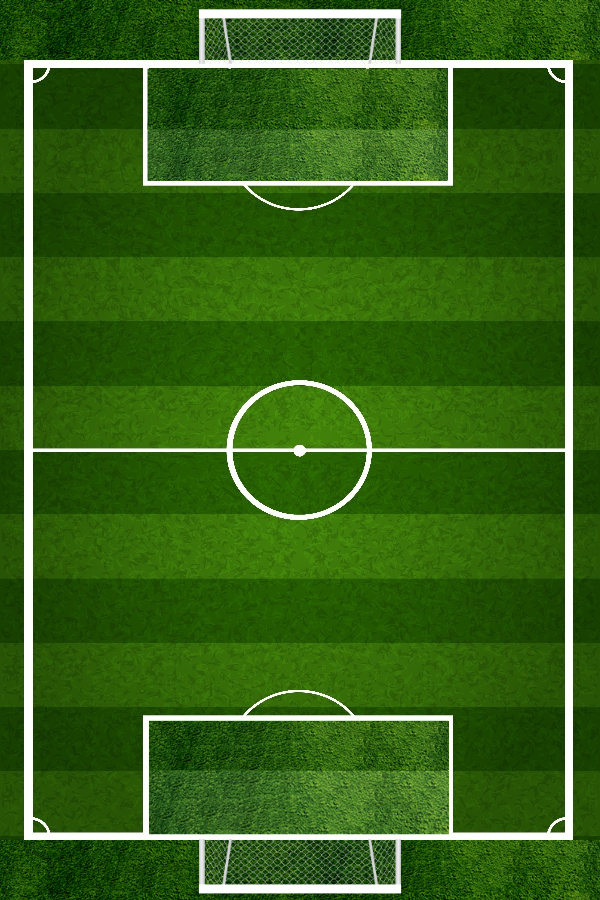
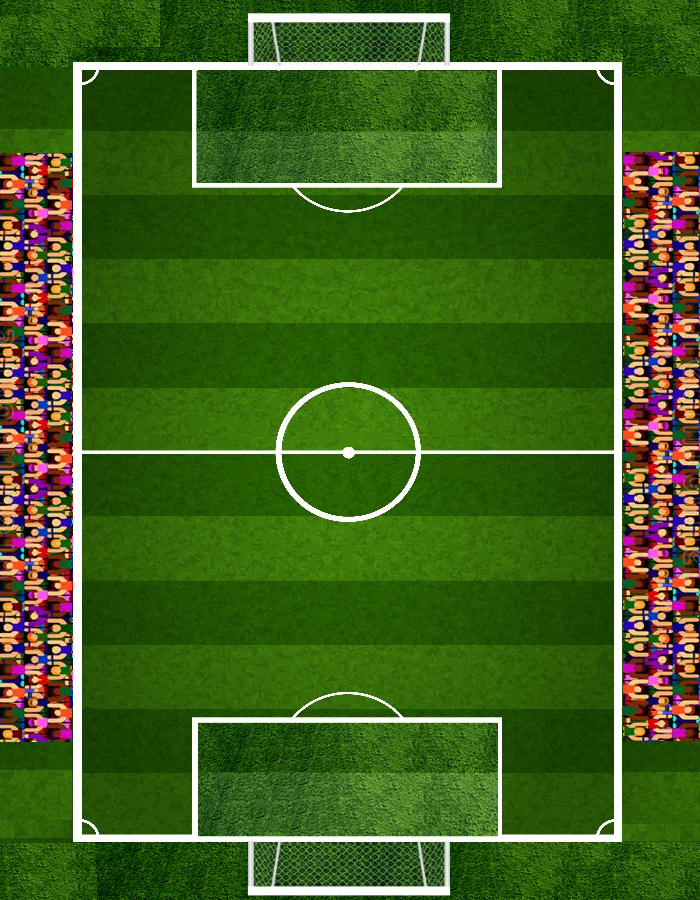
scoreboard, power bar, ball, game over condition

diff --git a/main.py b/main.py
@@ -8,12 +8,11 @@ pygame.mixer.init()
 sonido_fondo = pygame.mixer.Sound("sound/fans.mp3")
 pygame.mixer.Sound.play(sonido_fondo,-1)
 
-
 # Initialize the gygame
 pygame.init()
 
 # Create the screen
-screen = pygame.display.set_mode((700,900))
+screen = pygame.display.set_mode((950,900))
 
 # Title and Icon
 pygame.display.set_caption("Table Soccer")
@@ -21,7 +20,12 @@ icon = pygame.image.load('Images/copa-mundial.png')
 pygame.display.set_icon(icon)
 
 # Background
-background = pygame.image.load("Images/field2.png")
+background = pygame.image.load("Images/field.png")
+scoreboard = pygame.image.load("Images/scoreboard.png")
+landscape = pygame.image.load("Images/landscape.jpeg")
+
+# Arrow
+arrow_image = pygame.image.load("Images/right-arrow.png")
 
 # pymunk space
 space = pymunk.Space()
@@ -30,16 +34,42 @@ draw_options = pymunk.pygame_util.DrawOptions(screen)
 
 # clock
 clock = pygame.time.Clock()
-FPS = 120
+FPS = 16
 
 # game variables
 dia = 52
-force = 2000
+force = 0
+max_force = 2000
+force_direction = 1
+powering_up = False
+scored_1 = False
+scored_2 = False
+team1_score = 0
+team2_score = 0
+game_running = True
+turn_player2 = False
 
-team1_image = pygame.image.load('Images/argentina52.png')
-team1_image2 = pygame.image.load('Images/argentina.png')
-team2_image = pygame.image.load('Images/brazil52.png')
-team2_image2 = pygame.image.load('Images/brazil.png')
+# colours
+RED = (255, 0, 0)
+WHITE = (255, 255, 255)
+GREEN = (0, 255, 0)
+
+# fonts
+font = pygame.font.SysFont("Lato", 60)
+#font = pygame.transform.rotate(original_font, 90)
+large_font = pygame.font.SysFont("Lato", 90)
+
+name1 = 'argentina'
+name2 = 'brazil'
+
+team1_image = pygame.image.load(f'Images/{name1}52.png')
+team1_image2 = pygame.image.load(f'Images/{name1}.png')
+team2_image = pygame.image.load(f'Images/{name2}52.png')
+team2_image2 = pygame.image.load(f'Images/{name2}.png')
+ball_image = pygame.image.load('Images/ball.png')
+
+rotated_1 = pygame.transform.rotate(team1_image, 90)
+rotated_2 = pygame.transform.rotate(team2_image, 90)
 
 # Teams' players coordinates
 coord_1 = [
@@ -52,20 +82,29 @@ coord_2 = [
     (499,677), (274,552), (424,552)
 ]
 
+# function for outputting text onto the screen
+def draw_text(text, font, text_col, x, y, rotated=True):
+    img = font.render(text, True, text_col)
+    if rotated:
+        img = pygame.transform.rotate(img, 270)
+    screen.blit(img, (x, y))
+
 # funcion for creating balls
-def create_ball(radious, pos):
+def create_ball(radious, pos, mass = 5, elasticity = 0.8, friction = 300): # elasticity = 0.8, mass = 5
     body = pymunk.Body()
     body.position = pos
     shape = pymunk.Circle(body, radious)
-    shape.mass = 5
-    shape.elasticity = 0.8
+    shape.mass = mass
+    shape.elasticity = elasticity
     # use pivot join to add friction
     pivot = pymunk.PivotJoint(static_body, body, (0,0), (0,0))
     pivot.max_bias = 0 # disable joint correction
-    pivot.max_force = 1000 # emulate linear friction
+    pivot.max_force = friction # emulate linear friction
 
     space.add(body, shape, pivot)
     return shape
+
+ball = create_ball(16, (350,450), 2, 0.8, 150)
 
 # setup game players team_1
 team_1 = [create_ball(32, coord_1[0])]
@@ -79,12 +118,23 @@ for i in range(1,6):
     new_player = create_ball(dia/2, coord_2[i])
     team_2.append(new_player)
 
+# create lines of goal
+goals = [62, 842]
+
 # create field cushions
 cushions = [
-    [(73,62), (623,62), (614,69), (81,69)],
-    [(73,62), (73,841), (81,834), (81,69)],
-    [(81,834), (614,834), (622,841), (73,841)],
-    [(614,69), (614,834), (622,841), (622,62)],
+    [(73,62), (243,62), (251,70), (81,70)],
+    [(243,13), (243,62), (251,70), (251,21)],
+    [(452,13), (243,13), (251,21), (444,21)],
+    [(452,13), (452,62), (444,70), (444,21)],
+    [(452,62), (622,62), (614,70), (444,70)],
+    [(73,62), (73,842), (81,834), (81,70)],
+    [(73,842), (243,842), (251,834), (81,834)],
+    [(243,891), (243,842), (251,834), (251,883)],
+    [(452,891), (243,891), (251,883), (444,883)],
+    [(452,891), (452,842), (444,834), (444,883)],
+    [(452,842), (622,842), (614,834), (444,834)],
+    [(614,70), (614,834), (622,842), (622,62)],
 ]
 
 # function for creating cushions
@@ -97,6 +147,30 @@ def create_cushion(poly_dims):
 
 for c in cushions:
     create_cushion(c)
+
+class Arrow():
+    def __init__(self, pos):
+        self.original_image = arrow_image
+        self.angle = 0
+        self.image = pygame.transform.rotate(self.original_image, self.angle)
+        self.rect = self.image.get_rect()
+        self.rect.center = pos
+
+    def update(self, angle):
+        self.angle = angle
+
+    def draw(self, surface):
+        self.image = pygame.transform.rotate(self.original_image, self.angle)
+        surface.blit(self.image,
+            (self.rect.centerx - self.image.get_width()/2,
+            self.rect.centery - self.image.get_height()/2)
+        )
+
+selected = None
+
+# Create power bars to show how hard the player will hit
+power_bar = pygame.Surface((10,20))
+power_bar.fill(RED)
 
 # Game Loop
 running = True
@@ -111,6 +185,18 @@ while running:
 
     # Background Image
     screen.blit(background, (0,0))
+
+    # Landscape
+    screen.blit(landscape, (700,0))
+
+    # Scoreboard
+    screen.blit(scoreboard, (700,322))
+
+    # Check if any team scored
+    if ball.body.position[1] < goals[0] - ball.radius:
+        scored_2 = True
+    elif ball.body.position[1] > goals[1] + ball.radius:
+        scored_1 = True
 
     # Players images (goalkepper is bigger)
     # Team 1
@@ -128,19 +214,96 @@ while running:
     for player in team_2[1:]:
         screen.blit(team2_image, (player.body.position[0] - player.radius,
                                     player.body.position[1] - player.radius))
-    
+
+    # ball
+    screen.blit(ball_image, (ball.body.position[0] - ball.radius, ball.body.position[1] - ball.radius))
+
+    # check if all the objects have stopped moving
+    taking_shot = True
+    for player in team_1+team_2+[ball]:
+        if int(player.body.velocity[0]) != 0 or int(player.body.velocity[1]) != 0:
+            taking_shot = False
+            selected = None
+
     # calculate shot angle
-    mouse_pos = pygame.mouse.get_pos()
-    x_dist = team_2[0].body.position[0] - mouse_pos[0]
-    y_dist = -(team_2[0].body.position[1] - mouse_pos[1])
-    angle = math.degrees(math.atan2(y_dist, x_dist))
+    if taking_shot and game_running:
+        if scored_1 or scored_2:
+            # reposition players
+            coord = coord_1+coord_2
+            for i, player in enumerate(team_1+team_2):
+                player.body.position = coord[i]
+            ball.body.position = (350, 450)
+            team1_score += scored_1
+            team2_score += scored_2
+            scored_1 = False
+            scored_2 = False
+        if selected:
+            arrow = Arrow(selected.body.position)
+            mouse_pos = pygame.mouse.get_pos()
+            arrow.rect.center = selected.body.position
+            x_dist = -(selected.body.position[0] - mouse_pos[0])
+            y_dist = selected.body.position[1] - mouse_pos[1]
+            angle = math.degrees(math.atan2(y_dist, x_dist))
+            arrow.update(angle)
+
+            # Draw arrow
+            arrow.draw(screen)
+
+    # powering up seelected player
+    if selected and powering_up and game_running:
+        force += 100 * force_direction
+        if force >= max_force or force <= 0:
+            force_direction *= -1
+        # draw power bars
+        for b in range(math.ceil(force / 400)):
+            screen.blit(power_bar,
+            (selected.body.position[0] -30 + (b*15),
+            selected.body.position[1] + 30 ))
+    elif selected and not powering_up and taking_shot:
+        x_impulse = math.cos(math.radians(angle))
+        y_impulse = math.sin(math.radians(angle))
+        selected.body.apply_impulse_at_local_point((force * - x_impulse, force * y_impulse), (0, 0))
+        force = 0
+        force_direction = 1
+
+    # draw panel
+    draw_text(str(team1_score), large_font, WHITE, 785, 375)
+    draw_text(str(team2_score), large_font, WHITE, 785, 490)
+
+    screen.blit(rotated_1, (860, 365))
+    screen.blit(rotated_2, (860, 480))
+
+    if turn_player2:
+        draw_text("Team " + str(turn_player2 + 1) + " turn", font, WHITE, 10, 850, False)
+    else:
+        draw_text("Team " + str(turn_player2 + 1) + " turn", font, WHITE, 10, 10, False)
+
+    if team1_score >= 3:
+        draw_text("TEAM 1 WINS", font, WHITE, 200, 275, False)
+        game_running = False
+    elif team2_score >= 3:
+        draw_text("TEAM 2 WINS", font, WHITE, 200, 600, False)
+        game_running = False
 
     # Event handler
     for event in pygame.event.get():
-        if event.type == pygame.MOUSEBUTTONDOWN:
-            x_impulse = math.cos(math.radians(angle))
-            y_impulse = math.sin(math.radians(angle))
-            team_2[0].body.apply_impulse_at_local_point((force * - x_impulse, force * y_impulse), (0, 0))
+        if event.type == pygame.MOUSEBUTTONDOWN and taking_shot:
+            # Check if a player is clicked
+            if turn_player2:
+                team = team_2
+            else:
+                team = team_1
+            mouse_pos = pygame.mouse.get_pos()
+            for player in team:
+                player_x_dist = abs(player.body.position[0] - mouse_pos[0])
+                player_y_dist = abs(player.body.position[1] - mouse_pos[1])
+                player_dist = math.sqrt((player_x_dist ** 2) + (player_y_dist ** 2))
+                if player_dist <= player.radius:
+                    selected = player
+            powering_up = True
+        if event.type == pygame.MOUSEBUTTONUP and taking_shot and selected:
+            powering_up = False
+            turn_player2 = not turn_player2
         if event.type == pygame.QUIT:
             running = False
 
